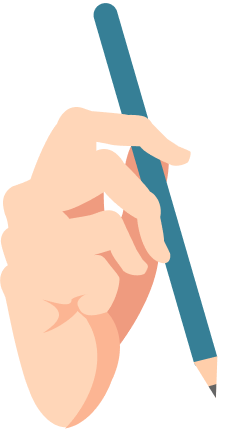
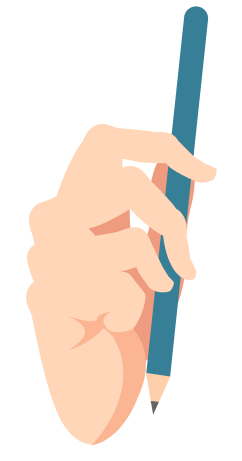
Aggiunta animazioni mano

diff --git a/assets/js/script.js b/assets/js/script.js
@@ -1,0 +1,69 @@
+//  NAVBAR MOBILE MODE
+let navbar = document.querySelector("#navbar");
+const menuBtn = document.querySelector(".menu-btn");
+const cancelBtn = document.querySelector(".cancel-btn");
+menuBtn.onclick = ()=>{
+    navbar.classList.add("show");
+    menuBtn.classList.add("hide");
+}
+cancelBtn.onclick = ()=>{
+    navbar.classList.remove("show");
+    menuBtn.classList.remove("hide");
+}
+window.onscroll = ()=>{
+    this.scrollY > 20 ? navbar.classList.add("sticky") : navbar.classList.remove("sticky");
+}
+
+// mouse sulle anteprime 
+let anteprima = document.querySelector('.img-anteprima');
+let etichettaAntep = document.querySelector('.etichetta');
+
+anteprima.addEventListener('mouseover', function() {
+    etichettaAntep.style.visibility = 'visible';
+    anteprima.style.filter = 'blur(3px)';
+})
+anteprima.addEventListener('mouseleave', function() {
+    etichettaAntep.style.visibility = 'hidden';
+    anteprima.style.filter = 'blur(0px)';
+})
+etichettaAntep.addEventListener('mouseover', function() {
+    etichettaAntep.style.visibility = 'visible';
+    anteprima.style.filter = 'blur(3px)';
+})
+
+// MANO PUNTATORE
+let containerImage = document.querySelector('.image');
+let mano = document.createElement('img');
+mano.src = 'assets/images/mano.png'
+mano.className = 'mano';
+containerImage.append(mano);
+
+let navOne = document.querySelector('.nav-1');
+let navTwo = document.querySelector('.nav-2');
+let navThree = document.querySelector('.nav-3');
+let navFour = document.querySelector('.nav-4');
+
+
+function nullPosition() {
+    mano.style.transform = null;
+}
+
+navOne.addEventListener('mouseover', function() {
+    mano.style.transform = "translateX(-180px) translateY(-10px) rotate(-70deg)" ;
+});
+navOne.addEventListener('mouseout', nullPosition);
+
+navTwo.addEventListener('mouseover', function() {
+    mano.style.transform = "translateX(-145px) translateY(55px) rotate(-70deg)" ;
+});
+navTwo.addEventListener('mouseout', nullPosition);
+
+navThree.addEventListener('mouseover', function() {
+    mano.style.transform = "translateX(150px) translateY(-30px) rotate(40deg)" ;
+});
+navThree.addEventListener('mouseout', nullPosition);
+
+navFour.addEventListener('mouseover', function() {
+    mano.style.transform = "translateX(110px) translateY(30px) rotate(40deg)" ;
+});
+navFour.addEventListener('mouseout', nullPosition);

diff --git a/index.html b/index.html
@@ -15,7 +15,6 @@
 
         <div class="image">
             <img src="assets/images/icona.jpg" alt="icon" class="main-icon">
-            <img src="assets/images/mano-mobile.png" alt="hand" class="hand-mobile">
         </div>
         
         <div class="menu-btn">
@@ -34,7 +33,6 @@
             <a href="#progetti" class="nav-2 link">Progetti <br> personali</a>
             <a href="contact/index.html" class="nav-4 link">Contatti</a>
             </div>
-            <img src="assets/images/mano.png" alt="hand" class="hand" id="hand">
         </nav>
 
         <div class="info-container">
@@ -164,42 +162,7 @@
         <a href="#home"><i class="fas fa-chevron-up fa-2x up-icon"></i></a>
     </div>
 
-    <script>
-
-        // navbar 
-        const navbar = document.querySelector("#navbar");
-        const menuBtn = document.querySelector(".menu-btn");
-        const cancelBtn = document.querySelector(".cancel-btn");
-        menuBtn.onclick = ()=>{
-            navbar.classList.add("show");
-            menuBtn.classList.add("hide");
-        }
-        cancelBtn.onclick = ()=>{
-            navbar.classList.remove("show");
-            menuBtn.classList.remove("hide");
-        }
-        window.onscroll = ()=>{
-            this.scrollY > 20 ? navbar.classList.add("sticky") : navbar.classList.remove("sticky");
-        }
-
-        // mouse sulle anteprime 
-        let anteprima = document.querySelector('.img-anteprima');
-        let etichettaAntep = document.querySelector('.etichetta');
-
-        anteprima.addEventListener('mouseover', function() {
-            etichettaAntep.style.visibility = 'visible';
-            anteprima.style.filter = 'blur(3px)';
-        })
-        anteprima.addEventListener('mouseleave', function() {
-            etichettaAntep.style.visibility = 'hidden';
-            anteprima.style.filter = 'blur(0px)';
-        })
-        etichettaAntep.addEventListener('mouseover', function() {
-            etichettaAntep.style.visibility = 'visible';
-            anteprima.style.filter = 'blur(3px)';
-        })
-
-    </script>
+    <script src="assets/js/script.js"></script>
 
 </body>
 

diff --git a/assets/css/style.css b/assets/css/style.css
@@ -34,6 +34,21 @@ a {
     position: relative;
 }
 
+
+/* ANIMAZIONE MANO  */
+
+.mano {
+    width: 27%;
+    position: absolute;
+    left: 39%;
+    bottom: -3%;
+    transform: rotate(-15deg);
+    transition: transform 500ms ease-in-out;
+}
+
+/* ------- */
+
+
 .main-icon {
     width: 100%;
 }
@@ -114,26 +129,26 @@ a {
     transform: scale(1.2);
 }
 
-.hand {
+/* .hand {
     width: 135px;
     position: absolute;
     top: -22px;
     left: 54%;
     transform: translate(-50%);
-}
-.hand-mobile {
+} */
+/* .hand-mobile {
     display: none;
-}
+} */
 
-#hand:hover {
+/* #hand:hover {
     visibility: visible;
 }
 
 .nav:hover .hand {
     visibility: hidden;
-}
+} */
 
-.nav-1:hover::before {
+/* .nav-1:hover::before {
     content: url(../images/puntatore.png);
     position: absolute;
     top: -140px;
@@ -163,7 +178,7 @@ a {
     top: -170px;
     left: -240px;
     transform: scale(0.45) rotate(50deg);
-}
+} */
 
 
 
